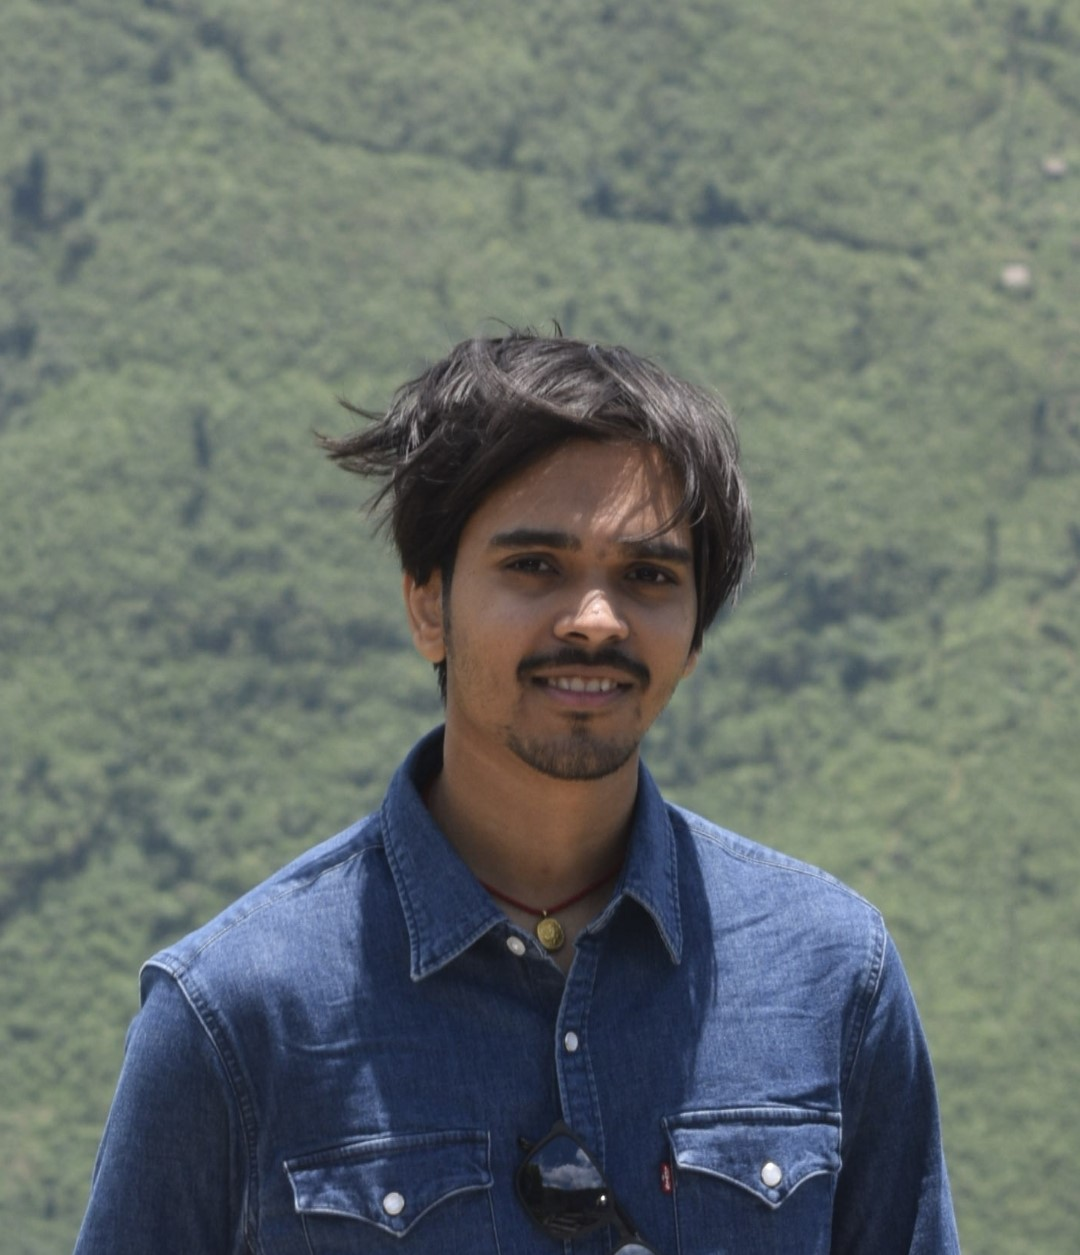
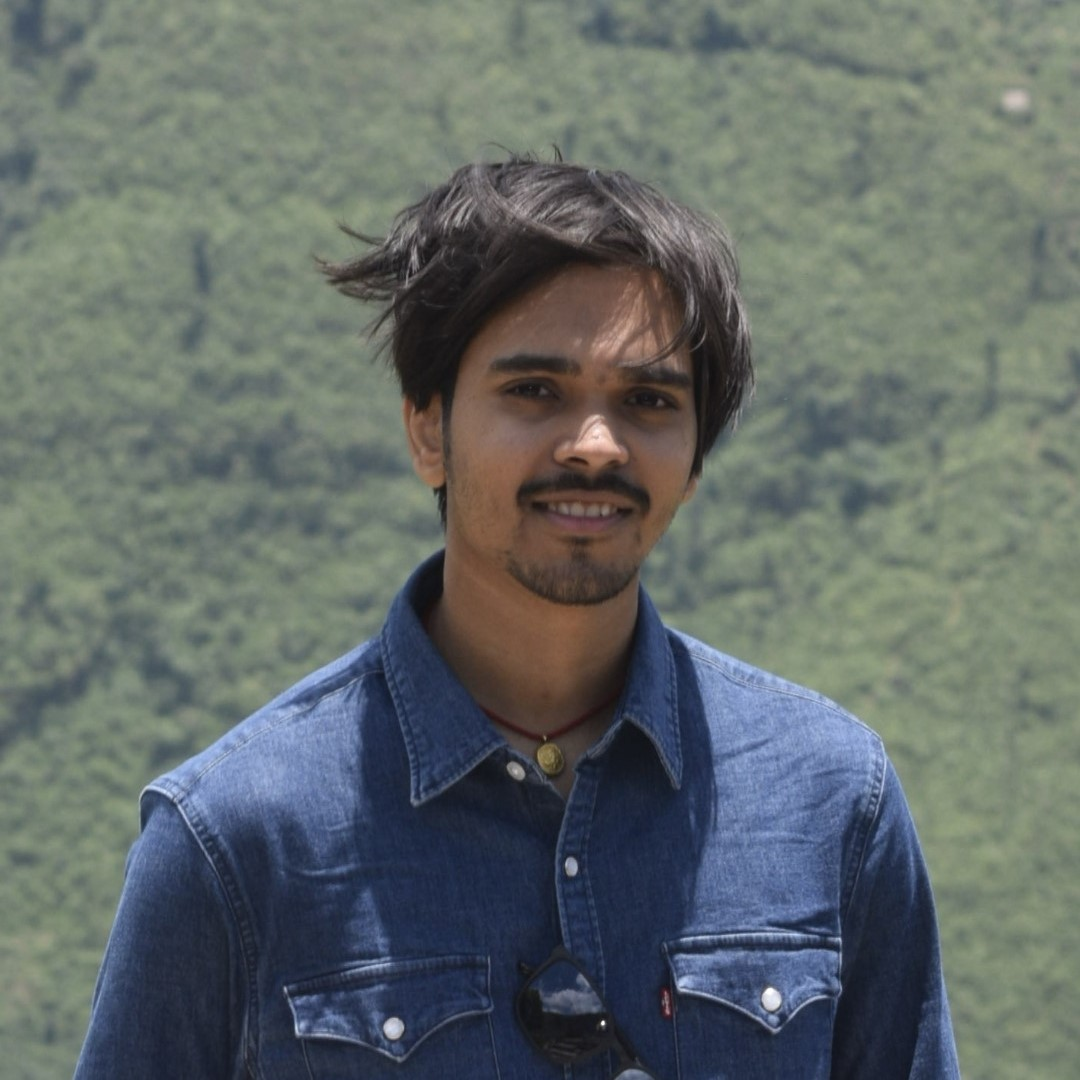
new commit

diff --git a/members_pages/mtech_btech.html b/members_pages/mtech_btech.html
@@ -20,6 +20,21 @@
     .card-info a {
       text-decoration: none;
     }
+    .card-img-frame {
+  width: 150px; /* Set the width of the frame */
+  height: 150px; /* Set the height of the frame */
+  overflow:auto /* Hide any part of the image that exceeds the frame */
+  border: 1px solid #000; /* Add a border to the frame */
+  box-sizing: border-box; /* Ensure the border is included in the frame's total width and height */
+  margin: 0 auto; /* Center the frame horizontally within the card */
+}
+
+.card-img-frame img {
+  display: block; /* Remove any default spacing around the image */
+  max-width: 100%; /* Ensure the image doesn't exceed the frame's width */
+  height: auto; /* Maintain the image's aspect ratio */
+  margin: auto; /* Center the image horizontally */
+}
   </style>
   <title>Document</title>
 </head>
@@ -124,6 +139,25 @@
         </div>
       </div>
       <!-- You can repeat the above card block for other cards as needed -->
+      <!-- Card 1 -->
+      <div class="col-md-4">
+        <div class="card" style="width: 100%">
+            <div class="card-img-frame">
+                <img src="../img/Mtech/prosenjit.jpg" class="card-img-top" alt="..." />
+            </div>
+            <div class="card-body">
+                <div class="card-info">
+                    <p><strong>Name:</strong> Prosenjit Mondal</p>
+                    <p><strong>Year:</strong> M.Tech (June 2023)</p>
+                    <p><strong>Topic:</strong> Electrochemicak 3d Printing</p>
+                    <a href="https://www.linkedin.com/in/prosenjitmondal98/" target="_blank"><i class="fab fa-linkedin fa-sm"></i> LinkedIn</a>
+                </div>
+            </div>
+        </div>
+      </div>
+
+
+
     </div>
   </div>
   <script src="https://cdn.jsdelivr.net/npm/bootstrap@5.3.1/dist/js/bootstrap.bundle.min.js"></script>

diff --git a/updated_style.css b/updated_style.css
@@ -607,3 +607,19 @@ img {
   margin: auto 20px;
   display: block;
 }
+
+.card-img-frame {
+  width: 50px; /* Set the width of the frame */
+  height: 50px; /* Set the height of the frame */
+  overflow: hidden; /* Hide any part of the image that exceeds the frame */
+  border: 5px solid #000; /* Add a border to the frame */
+  box-sizing: border-box; /* Ensure the border is included in the frame's total width and height */
+  margin: 0 auto; /* Center the frame horizontally within the card */
+}
+
+.card-img-frame img {
+  display: block; /* Remove any default spacing around the image */
+  max-width: 80%; /* Ensure the image doesn't exceed the frame's width */
+  height: auto; /* Maintain the image's aspect ratio */
+  margin: auto; /* Center the image horizontally */
+}

diff --git a/publications/journels_style.css b/publications/journels_style.css
@@ -48,3 +48,19 @@ h2 {
 .item-info p {
   margin-top: 0.5rem;
 }
+
+.card-img-frame {
+  width: 50px; /* Set the width of the frame */
+  height: 50px; /* Set the height of the frame */
+  overflow: hidden; /* Hide any part of the image that exceeds the frame */
+  border: 5px solid #000; /* Add a border to the frame */
+  box-sizing: border-box; /* Ensure the border is included in the frame's total width and height */
+  margin: 0 auto; /* Center the frame horizontally within the card */
+}
+
+.card-img-frame img {
+  display: block; /* Remove any default spacing around the image */
+  max-width: 80%; /* Ensure the image doesn't exceed the frame's width */
+  height: auto; /* Maintain the image's aspect ratio */
+  margin: auto; /* Center the image horizontally */
+}
